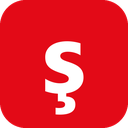
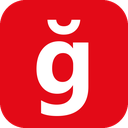
Sürüm 0.2.1: ikon harfi ğ, mağaza zip'i (kökte manifest), mağaza ekran görüntüleri

Changed region(s): [[0.2812, 0.3125, 0.7188, 0.9062], [0.3438, 0.125, 0.6562, 0.2812]]

diff --git a/tools/magaza-ekran.js b/tools/magaza-ekran.js
@@ -1,0 +1,53 @@
+// Chrome Web Store ekran görüntüleri: 1280x800, gerçek eklentiyle üretilir.
+const puppeteer = require('puppeteer');
+const http = require('http');
+const fs = require('fs');
+const path = require('path');
+const EKLENTI = 'D:/Projects/turkcelestir/eklenti';
+const CIKTI = 'D:/Projects/turkcelestir/magaza';
+
+const SAYFA = (metin, baslik, alt) => `<!doctype html><html lang="tr"><meta charset="utf-8"><body style="margin:0;width:1280px;height:800px;font-family:'Segoe UI',system-ui,sans-serif;background:linear-gradient(135deg,#e30a17,#8f0510);color:#fff;display:flex;align-items:center;justify-content:center;gap:56px">
+<div style="width:440px">
+  <div style="font-size:20px;opacity:.85;margin-bottom:10px">Türkçeleştir</div>
+  <div style="font-size:44px;font-weight:700;line-height:1.15">${baslik}</div>
+  <div style="font-size:22px;margin-top:18px;opacity:.95;line-height:1.4">${alt}</div>
+</div>
+<div style="width:520px;background:#fff;color:#1d1d1f;border-radius:14px;padding:22px;box-shadow:0 18px 40px rgba(0,0,0,.35)">
+  <div style="font-size:15px;color:#666;margin-bottom:8px">Forum · Yanıt yaz</div>
+  <textarea id="kutu" style="width:100%;box-sizing:border-box;height:260px;font:19px/1.5 'Segoe UI',system-ui,sans-serif;padding:14px;border:1px solid #bbb;border-radius:10px">${metin}</textarea>
+  <div style="margin-top:14px;display:flex;justify-content:flex-end"><span style="background:#e30a17;color:#fff;padding:10px 22px;border-radius:8px;font-size:16px">Gönder</span></div>
+</div></body></html>`;
+
+const ILK = 'merhaba arkadaslar, bugun cok guzel bir gun .yarin istanbula gidiyorum,siz de gelecek misiniz';
+const SONRA = 'Merhaba arkadaşlar, bugün çok güzel bir gün. Yarın İstanbul\'a gidiyorum, siz de gelecek misiniz?';
+
+const ekranlar = [
+  { ad: '1-once.png', baslik: 'Almanca klavyeyle yazdın,<br>Türkçe harfler yok.', alt: 'Sorun değil. Yazı kutusuna sağ tıkla.', metin: ILK, duzelt: false },
+  { ad: '2-sonra.png', baslik: 'Sağ tık → Türkçeleştir.<br>Bitti.', alt: 'Türkçe harfler, büyük harf ve noktalama düzelir. Kelimeler değişmez.', metin: ILK, duzelt: true },
+];
+
+http.createServer((q, r) => { r.setHeader('content-type', 'text/html; charset=utf-8'); r.end(q.url.includes('sonra') ? '' : ''); }).listen(8831);
+
+(async () => {
+  const tarayici = await puppeteer.launch({
+    headless: true, pipe: true, executablePath: 'C:/Program Files/Google/Chrome/Application/chrome.exe',
+    userDataDir: __dirname + '/profil', enableExtensions: [EKLENTI],
+  });
+  const sw = await (await tarayici.waitForTarget(t => t.type() === 'service_worker' && t.url().includes('arka.js'))).worker();
+  const sayfa = await tarayici.newPage();
+  await sayfa.setViewport({ width: 1280, height: 800 });
+  for (const e of ekranlar) {
+    await sayfa.goto('http://localhost:8831/' + e.ad, { waitUntil: 'load' }).catch(() => {});
+    // localhost sunucusu boş döner; içeriği doğrudan yazarız
+    await sayfa.setContent(SAYFA(e.metin, e.baslik, e.alt), { waitUntil: 'load' });
+    await sayfa.click('#kutu');
+    if (e.duzelt) {
+      await sw.evaluate(async () => { const [s] = await chrome.tabs.query({ active: true }); return await calistir(s, 'tam', 'kisayol', { allFrames: true }); });
+      await new Promise(r => setTimeout(r, 400));
+    }
+    await sayfa.screenshot({ path: path.join(CIKTI, e.ad) });
+    console.log(e.ad, await sayfa.$eval('#kutu', x => x.value));
+  }
+  await tarayici.close();
+  process.exit(0);
+})().catch(e => { console.error(e); process.exit(1); });

diff --git a/tools/paketle.py b/tools/paketle.py
@@ -1,18 +1,30 @@
-# Sürüm zip'ini üretir: python tools/paketle.py  ->  dist/turkcelestir-<sürüm>.zip
-# Zip'in içinde tek klasör (turkcelestir/) ve eklenti dosyaları olur; kullanıcı açıp "Paketlenmemiş öğe yükle" ile seçer.
+# Sürüm paketlerini üretir: python tools/paketle.py
+#   dist/turkcelestir-<sürüm>.zip        GitHub Releases: içinde turkcelestir/ klasörü (elle açılıp yüklenir)
+#   dist/turkcelestir-magaza-<sürüm>.zip Chrome Web Store: manifest.json zip'in kökünde olmalı
 import json, os, zipfile
 
 kok = os.path.join(os.path.dirname(os.path.abspath(__file__)), '..')
 eklenti = os.path.join(kok, 'eklenti')
 surum = json.load(open(os.path.join(eklenti, 'manifest.json'), encoding='utf-8'))['version']
 os.makedirs(os.path.join(kok, 'dist'), exist_ok=True)
-hedef = os.path.join(kok, 'dist', f'turkcelestir-{surum}.zip')
 
-with zipfile.ZipFile(hedef, 'w', zipfile.ZIP_DEFLATED) as z:
-    for klasor, _, dosyalar in os.walk(eklenti):
-        for d in sorted(dosyalar):
+
+def dosyalar():
+    for klasor, _, adlar in os.walk(eklenti):
+        for d in sorted(adlar):
             yol = os.path.join(klasor, d)
-            z.write(yol, os.path.join('turkcelestir', os.path.relpath(yol, eklenti)))
-    z.write(os.path.join(kok, 'LICENSE'), 'turkcelestir/LICENSE')
-    z.write(os.path.join(kok, 'README.md'), 'turkcelestir/README.md')
-print(hedef, os.path.getsize(hedef) // 1024, 'KB')
+            yield yol, os.path.relpath(yol, eklenti).replace(os.sep, '/')
+
+
+def yaz(hedef, ust_klasor):
+    with zipfile.ZipFile(hedef, 'w', zipfile.ZIP_DEFLATED) as z:
+        for yol, goreli in dosyalar():
+            z.write(yol, (ust_klasor + '/' + goreli) if ust_klasor else goreli)
+        if ust_klasor:
+            z.write(os.path.join(kok, 'LICENSE'), ust_klasor + '/LICENSE')
+            z.write(os.path.join(kok, 'README.md'), ust_klasor + '/README.md')
+    print(hedef, os.path.getsize(hedef) // 1024, 'KB')
+
+
+yaz(os.path.join(kok, 'dist', f'turkcelestir-{surum}.zip'), 'turkcelestir')
+yaz(os.path.join(kok, 'dist', f'turkcelestir-magaza-{surum}.zip'), None)

diff --git a/tools/ikon.py b/tools/ikon.py
@@ -9,6 +9,6 @@ for boyut in (16, 32, 48, 128):
     d = ImageDraw.Draw(im)
     d.rounded_rectangle((0, 0, b - 1, b - 1), radius=b // 5, fill=(227, 10, 23, 255))
     font = ImageFont.truetype('C:/Windows/Fonts/segoeuib.ttf', int(b * 0.78))
-    d.text((b / 2, b * 0.40), 'ş', font=font, fill='white', anchor='mm')
+    d.text((b / 2, b * 0.40), 'ğ', font=font, fill='white', anchor='mm')
     im.resize((boyut, boyut), Image.LANCZOS).save(os.path.join(hedef, f'{boyut}.png'))
 print('tamam')
